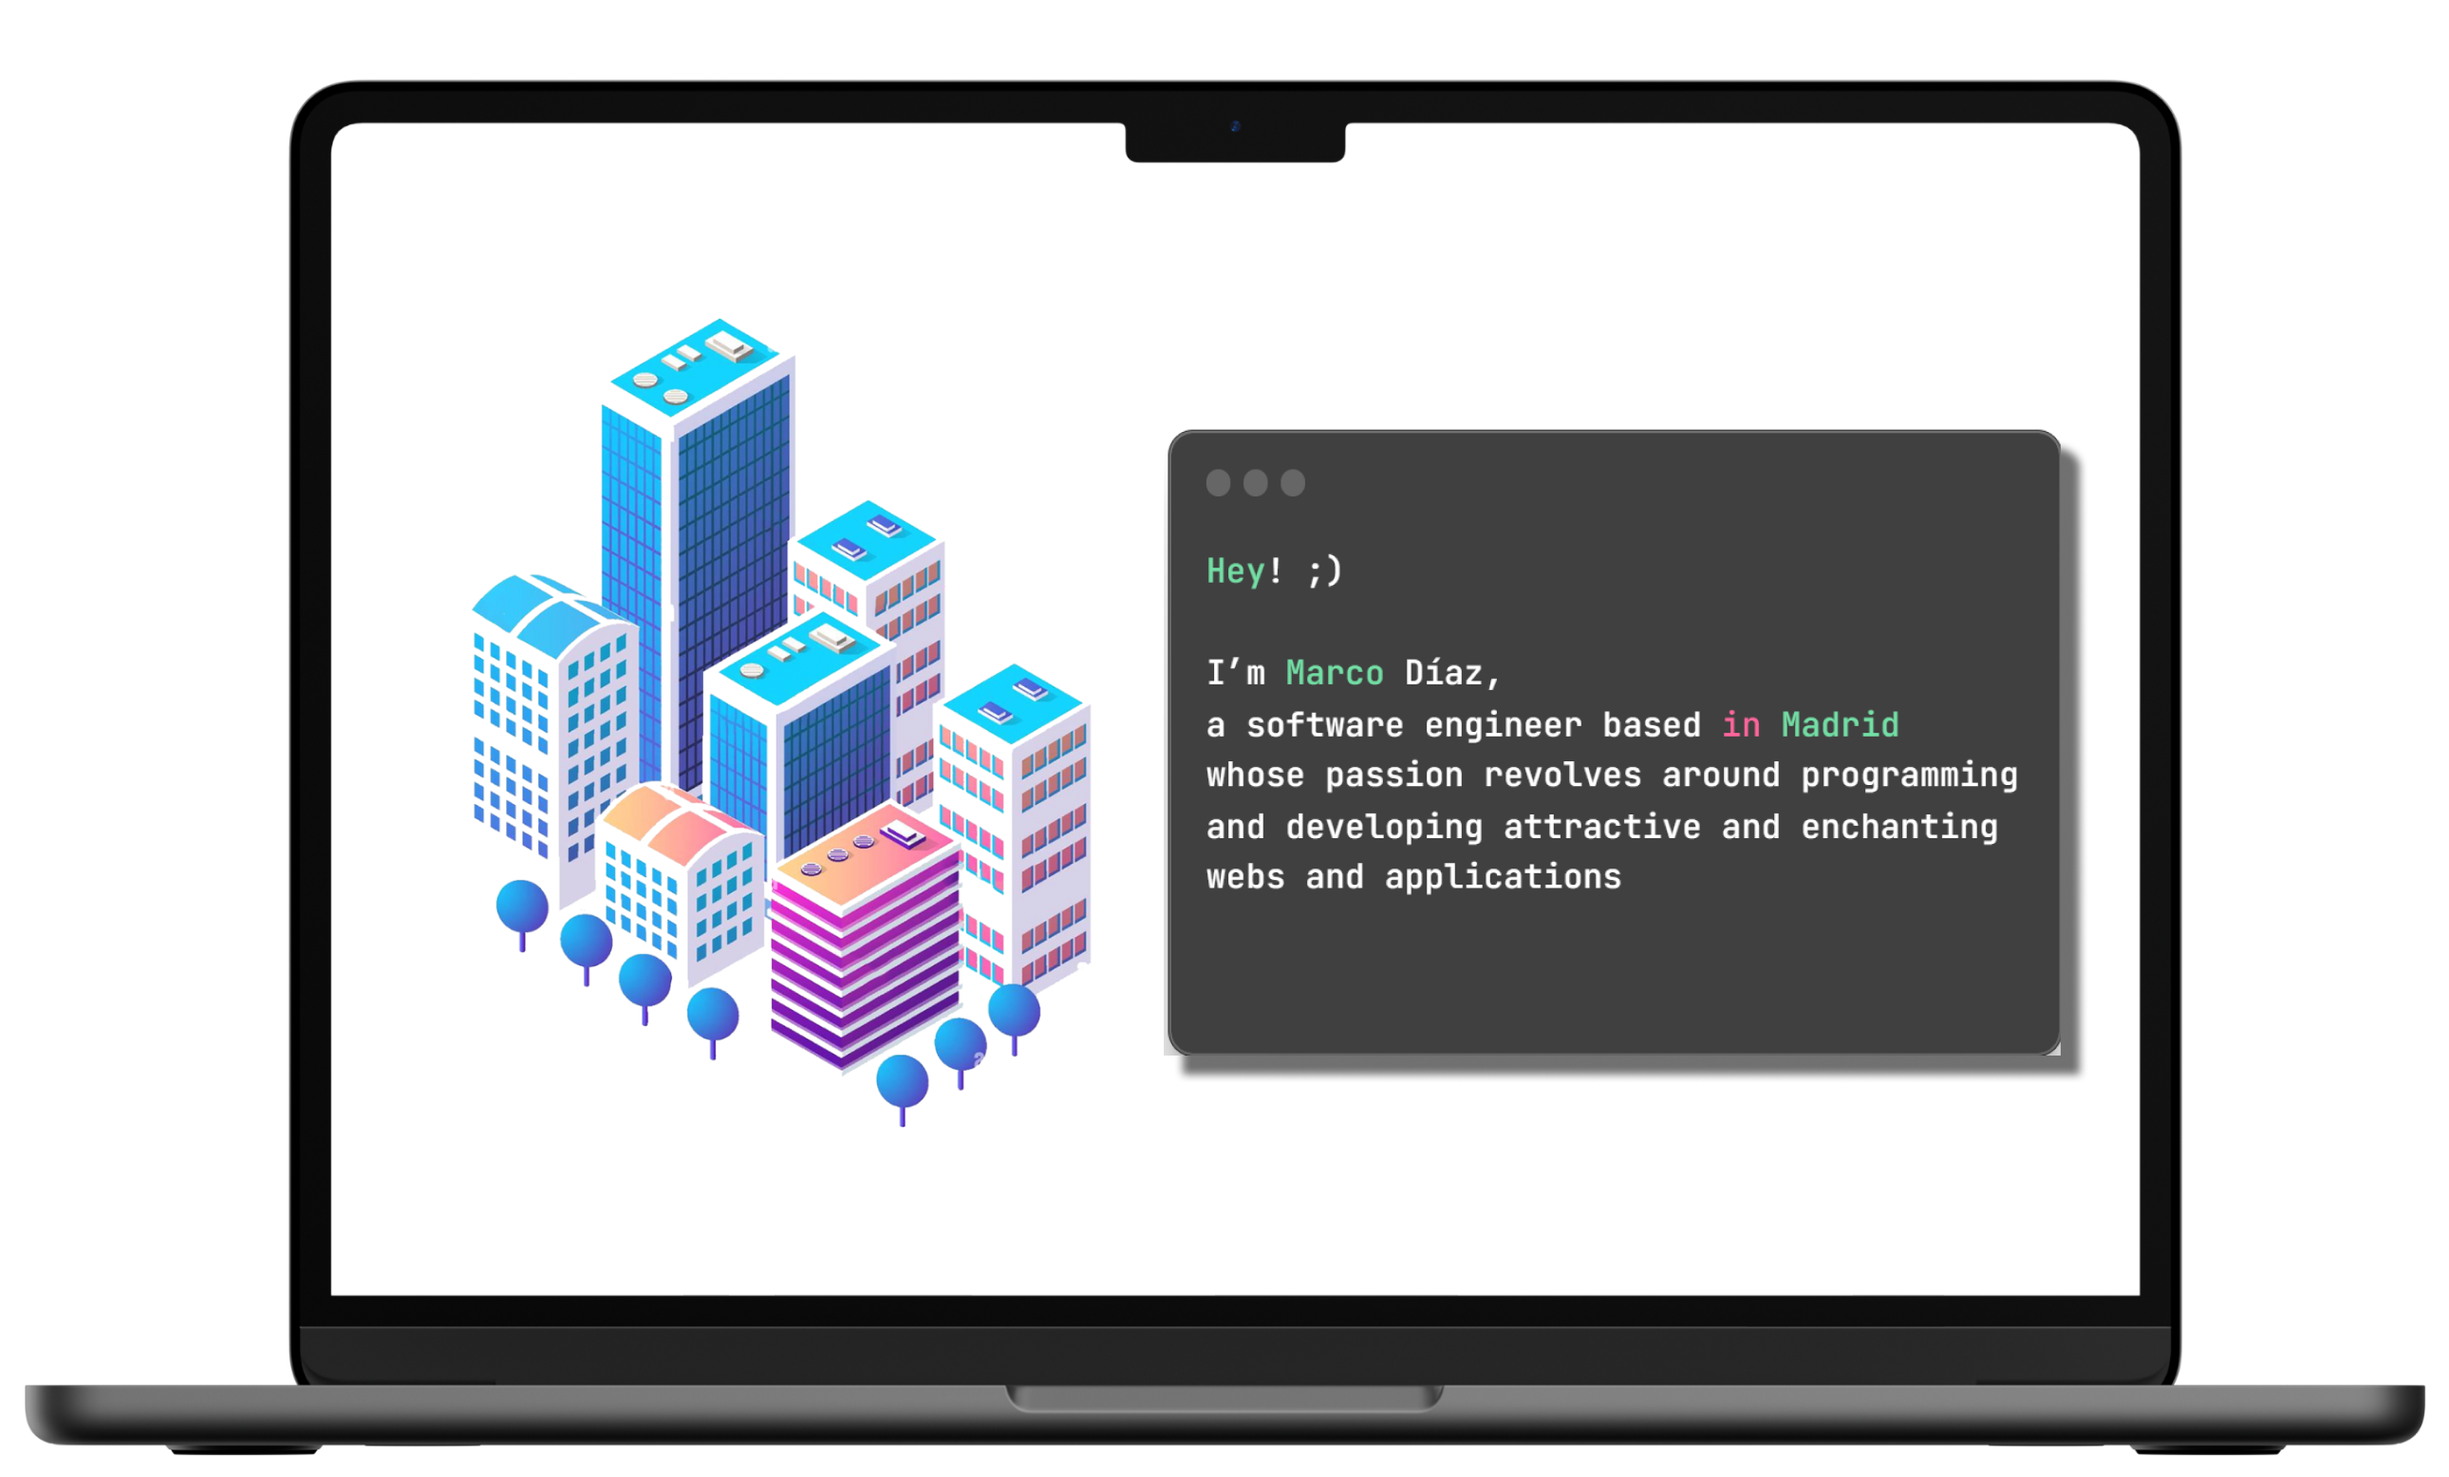
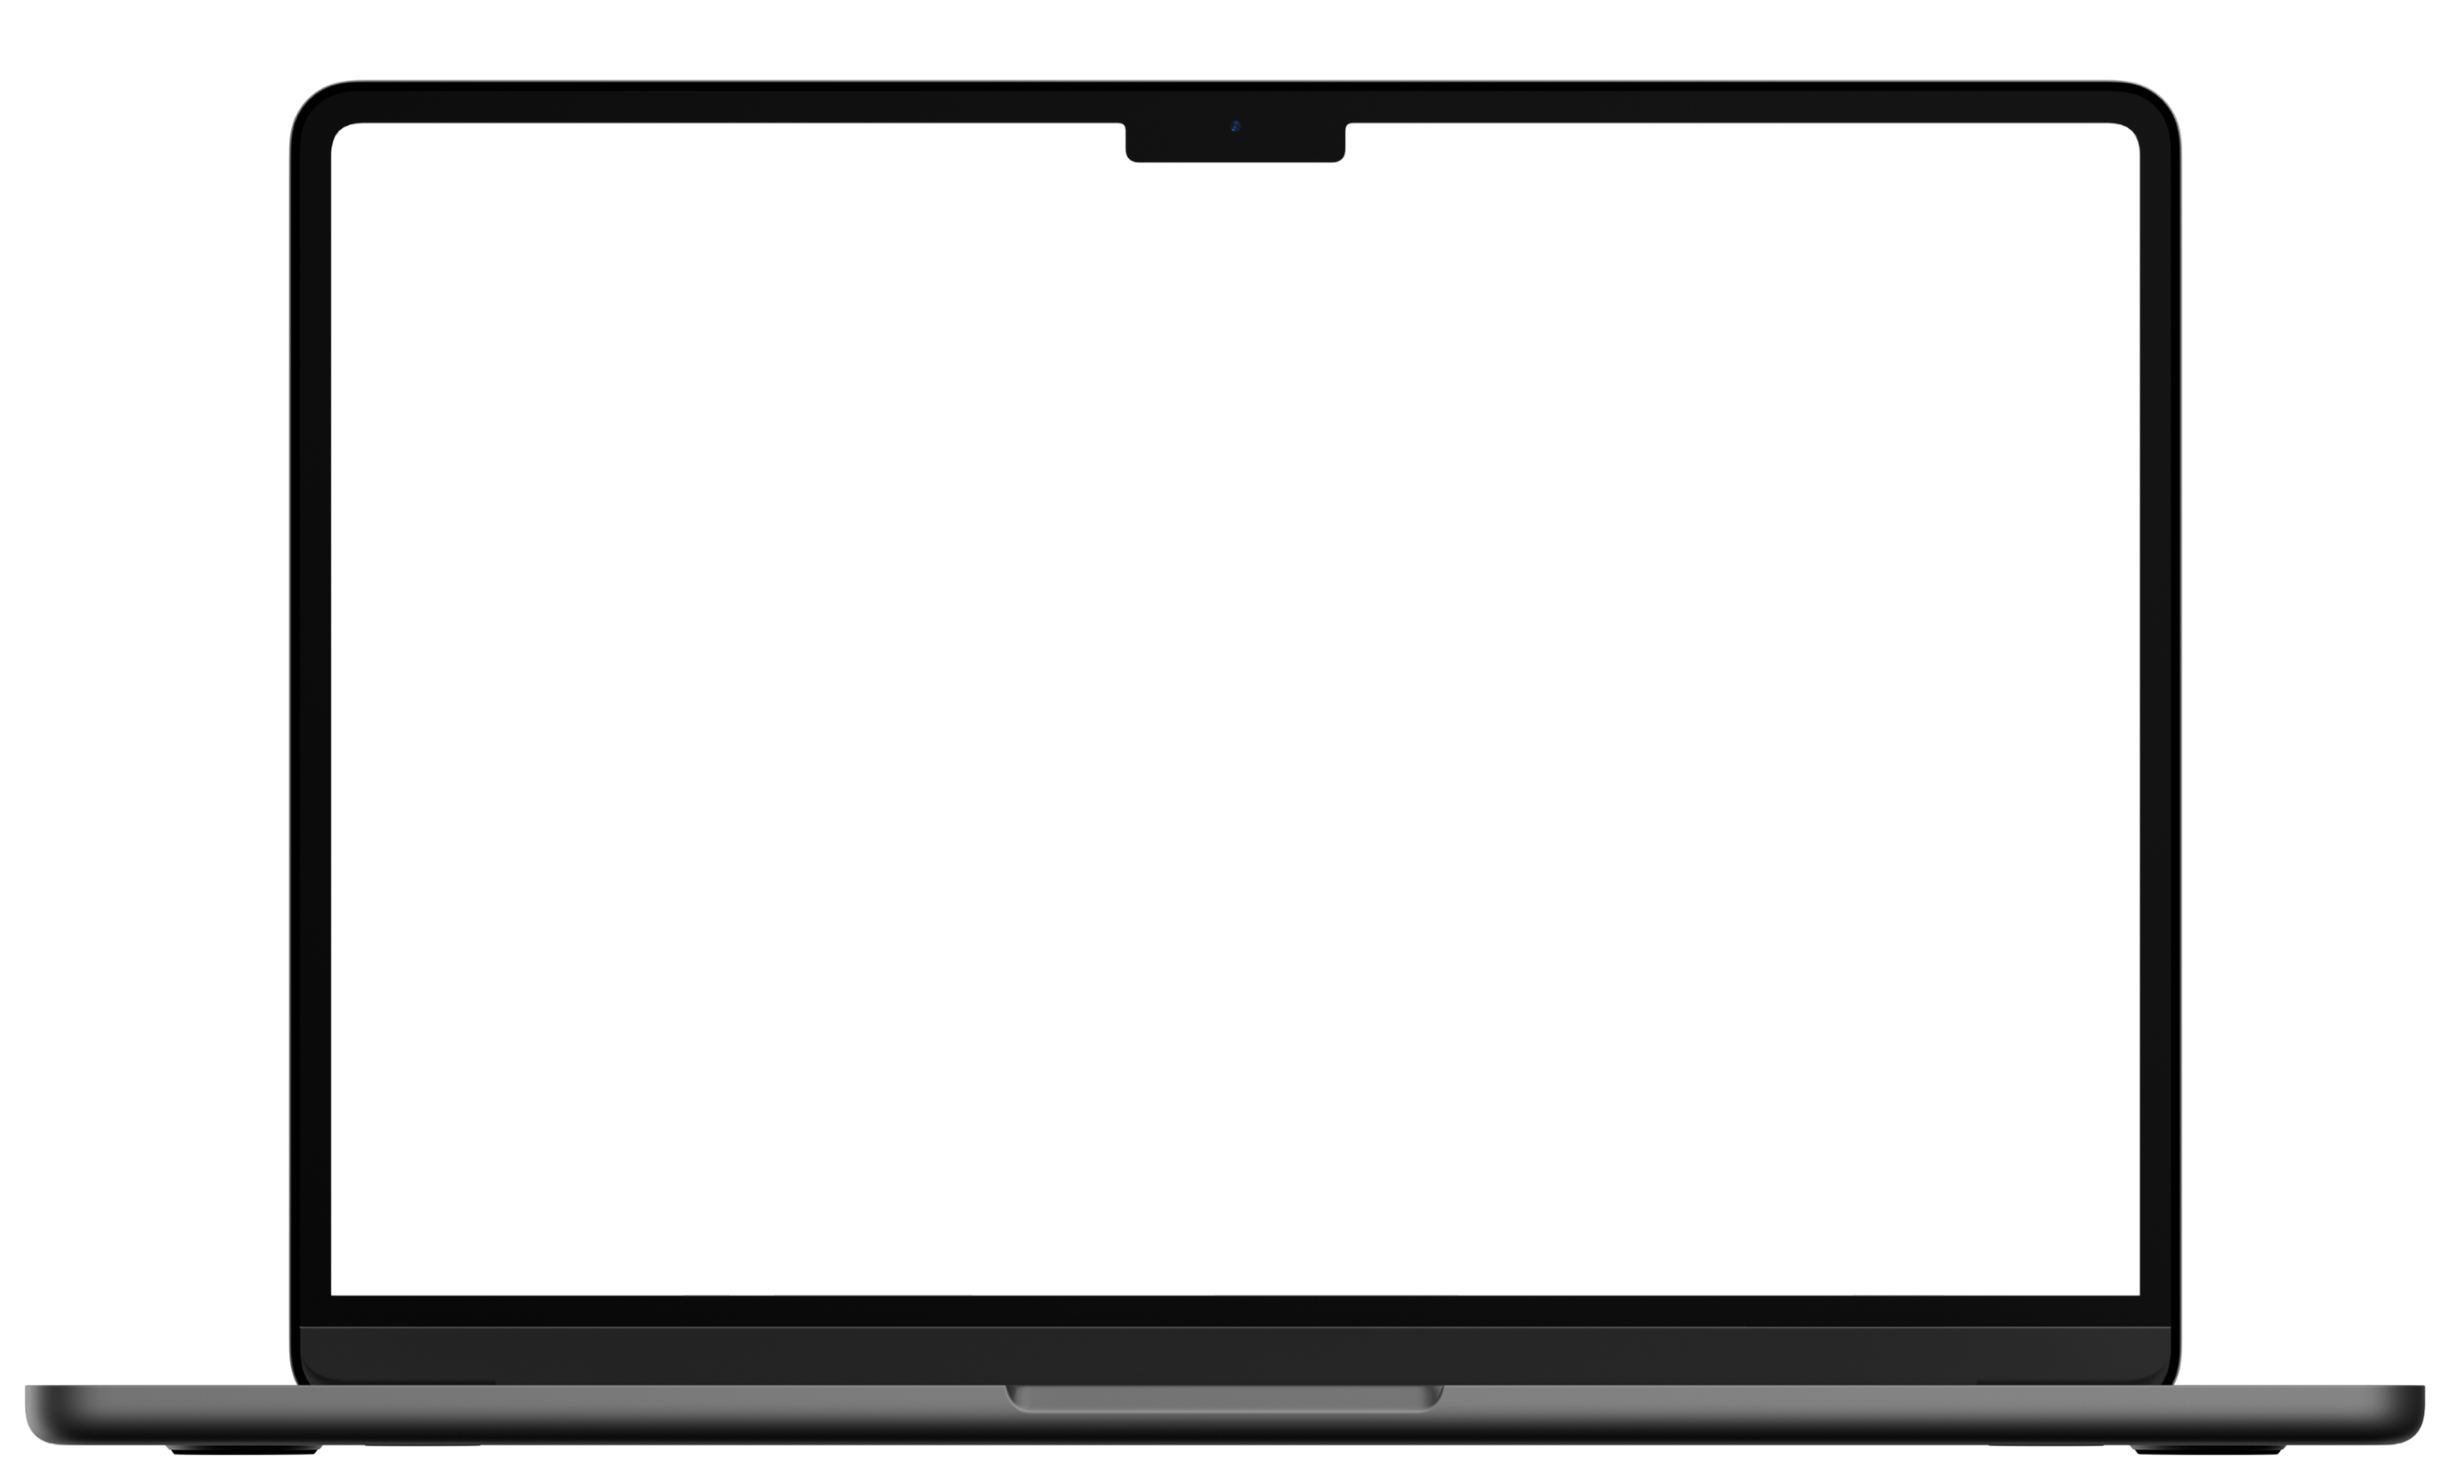
mac screen fixed

Changed region(s): [[0.186, 0.2159, 0.8682, 0.7712]]

diff --git a/styles.css b/styles.css
@@ -13,19 +13,19 @@ body{
     width: 100vw;
 }
 
-.screen{
+/* .screen{
     scroll-snap-type: y mandatory;
     overflow-y: scroll;
-}
+}*/
 section{
-    scroll-snap-align: center;
-    scroll-snap-stop: always;
-}
+   background-image: none;
+} 
 
 h2{
     font-size: 3rem;
     font-weight: 400;
 }
+
 .title{
     width: 100%;
     margin-bottom: 20px;
@@ -42,7 +42,7 @@ h2{
 .imgAndName{
     display: flex;
     justify-content: space-evenly;
-    align-items: start;
+    align-items: center;
 }
 
 .imgAndName img{
@@ -65,13 +65,19 @@ h2{
     font-size: 10rem;
     font-weight: 700;
     line-height: 100%;
-    -webkit-text-stroke: 1px #A2B2F5;
+    -webkit-text-stroke: 1.5px #A2B2F5;
     text-shadow: 0 0 10px #A2B2F5;
     margin-bottom: 20px;
 }
 
 #description{
-    font-size: 2rem;
+    font-size: 2.5rem;
+    text-shadow: 0 0 10px rgba(0, 0, 0, 0.1);
+    color: white;
+    -webkit-text-stroke: 1.5px black;
+    font-weight: 700;
+
+
 }
 
 .margintop{
@@ -90,12 +96,81 @@ h2{
     align-items: center;
     text-align: center;
 }
-
-#aboutMeImg{
-    width: 100vw;
-    border-radius: 0%;
+.colum{
+    display: flex;
+    flex-direction: column;
+    align-items: center;
 }
 
+#macbookSection{
+    height: 140vh;
+    width: 100vw;
+    z-index: 10;
+    position: relative;
+}
+#macbookSection img{
+    width: 100vw;
+    height: 100vh;
+}
+
+/* #macScreen{
+    width: 100vw;
+    height: 100vh;
+} */
+
+#screenScroll{
+  display: flex;
+  flex-direction: column;
+  align-items:flex-start;
+  justify-content: center;
+  margin-top: -100vh;
+ 
+}
+.imgAndText{
+    width: 60vw;
+    text-align: center;
+    display: flex;
+    justify-content: center;
+    align-items: center;
+    margin-bottom: 100px;
+}
+.imgAndText img{
+    border-radius: 50%;
+    width: 30vw;
+    padding: 0px;
+    box-shadow:inset 0px 10px 40px rgba(0, 0, 0, 0.1);
+    box-shadow: 0px 10px 40px rgba(0, 0, 0, 0.1);
+
+}
+
+.marginRight{
+    margin-right: 100px;
+
+}
+
+.textBlock{
+    color: rgb(28, 28, 28);
+    font-size: 1.2rem;
+    border-radius: 20px;
+    padding: 50px;
+    background: #A2B2F5;
+    width: 20vw;
+    box-shadow: 2px 2px 10px rgba(0, 0, 0, 0.3);
+
+}
+.textBlock h2{
+    color: white;
+    font-weight: 600;
+    padding-bottom: 20px;
+}
+/* #aboutMeImg{
+    width: 90%;
+    border-radius: 0%;
+} */
+
+#knowledgeSection{
+    margin-top: 100vh;
+}
 #knowledge{
     font-size: 14.2rem;
 }

diff --git a/index.html b/index.html
@@ -22,13 +22,37 @@
                     </div>
                 </div>
             </section>
-            <section class="screen">
+            <section class="screen center-column">
                 <div class="title margintop">
                     <p id="aboutMe">ABOUT ME</p>
                 </div>
+                <div id="macbookSection" class="column">
                 <img id="aboutMeImg" src="/img/aboutme.png" alt="">
+
+                </div>
+                <div id="macScreen">
+                    <div id="screenScroll" class="">
+                        <div class="imgAndText">
+                            <img src="./img/neonCityPngBlur.png" alt="">
+                            <div class="textBlock">
+                                <h2>Hey!</h2>
+                                <p>I'm a Software Engineer based in Madrid whose passion revolves around developing enchanting webs and applications</p>
+                            </div>
+                        </div>
+                        <div class="imgAndText">
+                            <div class="textBlock marginRight">
+                                <h2>Hey!</h2>
+                                <p>I'm a Software Engineer based in Madrid whose passion revolves around developing enchanting webs and applications</p>
+                            </div>
+                            <img  src="./img/neonCityPngBlur.png" alt="">
+                        </div>
+                        
+                    </div>
+                </div>
+  
+                <!-- <img id="aboutMeImg" src="/img/aboutme.png" alt=""> -->
             </section>
-            <section class="screen margintop">
+            <section id="knowledgeSection" class="screen margintop">
                 <div class="title">
                     <p id="knowledge">KNOWLEDGE</p>
                 </div>
@@ -46,8 +70,8 @@
                 </div>
             </section>
     </div>
-</body>
 <script src="https://cdnjs.cloudflare.com/ajax/libs/gsap/3.11.4/gsap.min.js"></script>
 <script src="https://cdnjs.cloudflare.com/ajax/libs/gsap/3.11.4/ScrollTrigger.min.js"></script>
 <script src="main.js"></script>
+</body>
 </html>

diff --git a/main.js b/main.js
@@ -8,9 +8,24 @@ gsap.from("#description", {opacity:0, x:"100%", duration:1.5})
 // about me
 gsap.from("#aboutMe",  {scrollTrigger:{
     trigger:"#aboutMe",
-    start:"20% bottom",
-    scrub:1}
+    start:"center center",
+    scrub: true}
     , opacity:0, y:"-100%", duration:1})
+
+let tl = gsap.timeline({scrollTrigger:{
+    trigger:"#macbookSection",
+    start: "top top",
+    pin: true,
+   }
+})
+tl.from(".imgAndText img", {opacity: 0, x:"-100%", duration: 1})
+tl.from(".imgAndText .textBlock", {opacity: 0, x:"100%", duration: 1})
+
+// gsap.from("#macScreen",  {scrollTrigger:{
+//     trigger:"#macbookSection",
+//     start: "center center",
+//     pin: true,},
+//      opacity: 0, duration: 5})
 
 // knowledge
 gsap.from("#knowledge",  {scrollTrigger:{
